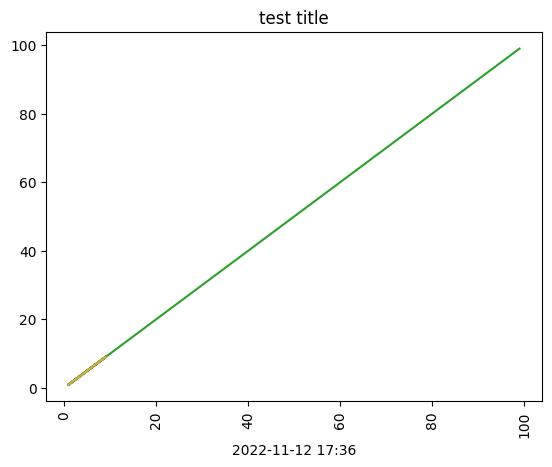
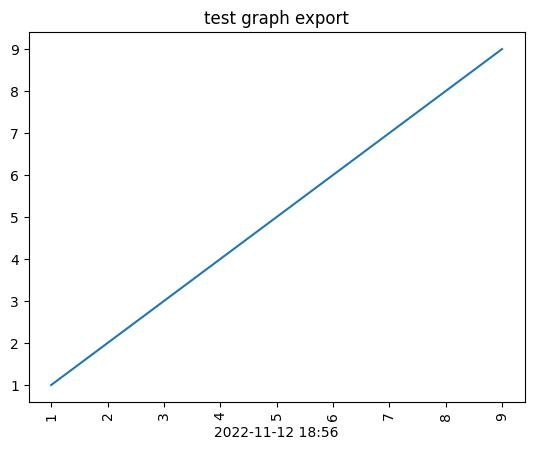
more graph insert testing

diff --git a/templates/stock_graph_test.html b/templates/stock_graph_test.html
@@ -12,11 +12,15 @@
     <input type="submit" value="Calculate">
     <br>
     <br>
-    <!-- <p style="text-align: center; color:black">{{return_val}}</p> -->
-    <br>
-    <br>
+
+    {% if return_val == 1 %}
     <img src="/static/test.jpg" alt="test graph">
-    <!-- <img src={{img}} alt="test graph"> -->
+    {% endif %}
+    <br>
+    <br>
+    <a href="/stock_graph_test">
+        <img alt="Reset" src="/static/reset_logo.png" width=45 height=45>
+    </a>
     <br>
     <br>
     <br>

diff --git a/app.py b/app.py
@@ -962,6 +962,9 @@ def run_wordle_example():
 
 
 ##### in progress #####
+# will probably need to introduce a new requirements file for the new packages
+    # maybe need to dl then in the environment as well
+
 
 def export_graph_test(xy_val, text_ymdt):
         xy_val = int(xy_val)
@@ -969,15 +972,15 @@ def export_graph_test(xy_val, text_ymdt):
         plt.xticks(rotation=90)
         y = range(1, xy_val)
         plt.plot(x, y)
-        plt.title('test title')
+        plt.title('test graph export')
         plt.xlabel(f"{text_ymdt}")
         plt.savefig(f'C:/Users/james/OneDrive/Desktop/Projects/heroku_apps/static/test.jpg', bbox_inches='tight')
-        # plt.show()
-        # plt.clf()
-        return "done"
+        plt.cla()
+        return 1
 
 @app.route("/stock_graph_test", methods=["POST", "GET"])
 def run_stock_test():
+    return_val = 0
     if request.method == "POST":
         xy_val = request.form["xy_val"]
         text_ymd = str(date.today().year) + '-' + str(date.today().month).zfill(2) + '-' + str(date.today().day).zfill(2)
